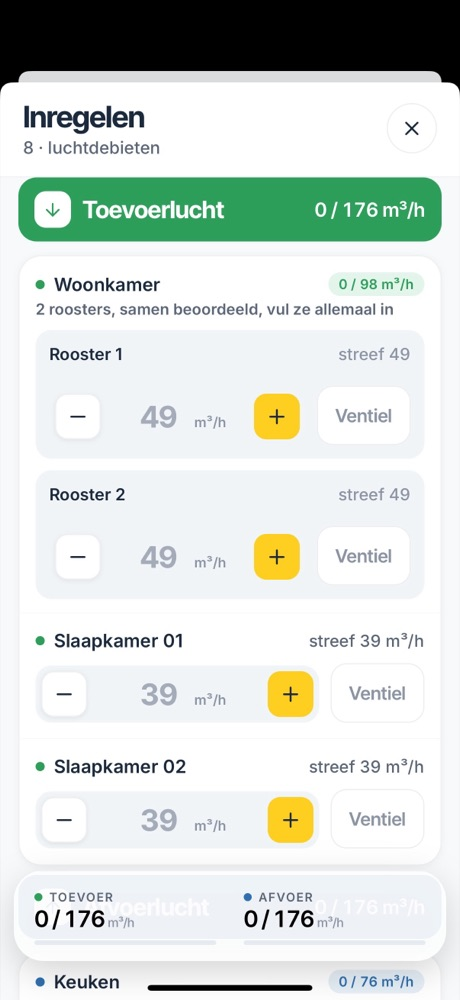
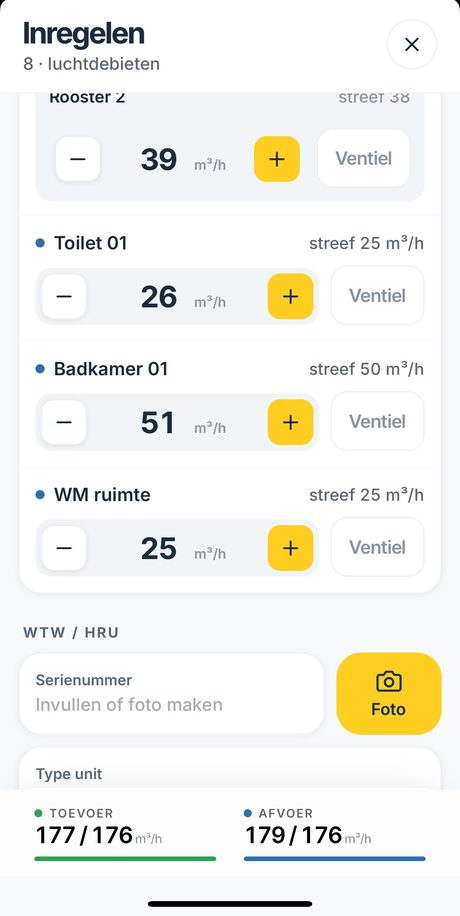
Vergelijking met BuildProof links, schone meetrapportfoto, footerlinks onder elkaar

diff --git a/index.html b/index.html
@@ -251,12 +251,12 @@
         <h3 class="h3">Van zoeken naar weten</h3>
         <div class="cmp-wrap">
         <table class="cmp">
-          <thead><tr><th scope="col"><span class="sr-only">Onderdeel</span></th><th scope="col" class="cmp-old">Zonder BuildProof</th><th scope="col" class="cmp-bp"><img src="/assets/v5/img/buildproof-logo-wit.png" alt="Met BuildProof" width="98" height="24"></th></tr></thead>
+          <thead><tr><th scope="col"><span class="sr-only">Onderdeel</span></th><th scope="col" class="cmp-bp"><span>Met BuildProof</span></th><th scope="col" class="cmp-old">Zonder BuildProof</th></tr></thead>
           <tbody>
-          <tr><th scope="row"><span class="cmp-topic"><i><svg viewBox="0 0 24 24" fill="none" stroke="currentColor" stroke-width="2.2" stroke-linecap="round" stroke-linejoin="round" aria-hidden="true"><path d="M14.5 4h-5L7 7H4a2 2 0 0 0-2 2v9a2 2 0 0 0 2 2h16a2 2 0 0 0 2-2V9a2 2 0 0 0-2-2h-3l-2.5-3z"/><circle cx="12" cy="13" r="3"/></svg></i>Foto’s</span></th><td class="cmp-old" data-label="Zonder BuildProof"><span class="cmp-ic cmp-no"><svg viewBox="0 0 24 24" fill="none" stroke="currentColor" stroke-width="2.6" stroke-linecap="round" stroke-linejoin="round" aria-hidden="true"><path d="M18 6 6 18M6 6l12 12"/></svg></span>Zoeken in groepsapps en camerarollen</td><td class="cmp-bp" data-label="Met BuildProof"><span class="cmp-ic cmp-yes"><svg viewBox="0 0 24 24" fill="none" stroke="currentColor" stroke-width="3" stroke-linecap="round" stroke-linejoin="round" aria-hidden="true"><path d="M20 6 9 17l-5-5"/></svg></span>Staan meteen op de juiste kavel</td></tr>
-          <tr><th scope="row"><span class="cmp-topic"><i><svg viewBox="0 0 24 24" fill="none" stroke="currentColor" stroke-width="2.2" stroke-linecap="round" stroke-linejoin="round" aria-hidden="true"><rect width="8" height="4" x="8" y="2" rx="1"/><path d="M16 4h2a2 2 0 0 1 2 2v14a2 2 0 0 1-2 2H6a2 2 0 0 1-2-2V6a2 2 0 0 1 2-2h2"/><path d="m9 14 2 2 4-4"/></svg></i>Checklists en metingen</span></th><td class="cmp-old" data-label="Zonder BuildProof"><span class="cmp-ic cmp-no"><svg viewBox="0 0 24 24" fill="none" stroke="currentColor" stroke-width="2.6" stroke-linecap="round" stroke-linejoin="round" aria-hidden="true"><path d="M18 6 6 18M6 6l12 12"/></svg></span>Op papier en in een schrift</td><td class="cmp-bp" data-label="Met BuildProof"><span class="cmp-ic cmp-yes"><svg viewBox="0 0 24 24" fill="none" stroke="currentColor" stroke-width="3" stroke-linecap="round" stroke-linejoin="round" aria-hidden="true"><path d="M20 6 9 17l-5-5"/></svg></span>Op de telefoon, met meetrapport</td></tr>
-          <tr><th scope="row"><span class="cmp-topic"><i><svg viewBox="0 0 24 24" fill="none" stroke="currentColor" stroke-width="2.2" stroke-linecap="round" stroke-linejoin="round" aria-hidden="true"><rect width="7" height="7" x="3" y="3" rx="1"/><rect width="7" height="7" x="14" y="3" rx="1"/><rect width="7" height="7" x="14" y="14" rx="1"/><rect width="7" height="7" x="3" y="14" rx="1"/></svg></i>Status per kavel</span></th><td class="cmp-old" data-label="Zonder BuildProof"><span class="cmp-ic cmp-no"><svg viewBox="0 0 24 24" fill="none" stroke="currentColor" stroke-width="2.6" stroke-linecap="round" stroke-linejoin="round" aria-hidden="true"><path d="M18 6 6 18M6 6l12 12"/></svg></span>Bijhouden in Excel</td><td class="cmp-bp" data-label="Met BuildProof"><span class="cmp-ic cmp-yes"><svg viewBox="0 0 24 24" fill="none" stroke="currentColor" stroke-width="3" stroke-linecap="round" stroke-linejoin="round" aria-hidden="true"><path d="M20 6 9 17l-5-5"/></svg></span>Kantoor ziet het direct</td></tr>
-          <tr><th scope="row"><span class="cmp-topic"><i><svg viewBox="0 0 24 24" fill="none" stroke="currentColor" stroke-width="2.2" stroke-linecap="round" stroke-linejoin="round" aria-hidden="true"><path d="M15 2H6a2 2 0 0 0-2 2v16a2 2 0 0 0 2 2h12a2 2 0 0 0 2-2V7Z"/><path d="M14 2v4a2 2 0 0 0 2 2h4"/><path d="M10 13h4M10 17h4"/></svg></i>Dossier</span></th><td class="cmp-old" data-label="Zonder BuildProof"><span class="cmp-ic cmp-no"><svg viewBox="0 0 24 24" fill="none" stroke="currentColor" stroke-width="2.6" stroke-linecap="round" stroke-linejoin="round" aria-hidden="true"><path d="M18 6 6 18M6 6l12 12"/></svg></span>Pas maken bij de oplevering</td><td class="cmp-bp" data-label="Met BuildProof"><span class="cmp-ic cmp-yes"><svg viewBox="0 0 24 24" fill="none" stroke="currentColor" stroke-width="3" stroke-linecap="round" stroke-linejoin="round" aria-hidden="true"><path d="M20 6 9 17l-5-5"/></svg></span>Staat klaar als PDF</td></tr>
+          <tr><th scope="row"><span class="cmp-topic"><i><svg viewBox="0 0 24 24" fill="none" stroke="currentColor" stroke-width="2.2" stroke-linecap="round" stroke-linejoin="round" aria-hidden="true"><path d="M14.5 4h-5L7 7H4a2 2 0 0 0-2 2v9a2 2 0 0 0 2 2h16a2 2 0 0 0 2-2V9a2 2 0 0 0-2-2h-3l-2.5-3z"/><circle cx="12" cy="13" r="3"/></svg></i>Foto’s</span></th><td class="cmp-bp" data-label="Met BuildProof"><span class="cmp-ic cmp-yes"><svg viewBox="0 0 24 24" fill="none" stroke="currentColor" stroke-width="3" stroke-linecap="round" stroke-linejoin="round" aria-hidden="true"><path d="M20 6 9 17l-5-5"/></svg></span>Staan meteen op de juiste kavel</td><td class="cmp-old" data-label="Zonder BuildProof"><span class="cmp-ic cmp-no"><svg viewBox="0 0 24 24" fill="none" stroke="currentColor" stroke-width="2.6" stroke-linecap="round" stroke-linejoin="round" aria-hidden="true"><path d="M18 6 6 18M6 6l12 12"/></svg></span>Zoeken in groepsapps en camerarollen</td></tr>
+          <tr><th scope="row"><span class="cmp-topic"><i><svg viewBox="0 0 24 24" fill="none" stroke="currentColor" stroke-width="2.2" stroke-linecap="round" stroke-linejoin="round" aria-hidden="true"><rect width="8" height="4" x="8" y="2" rx="1"/><path d="M16 4h2a2 2 0 0 1 2 2v14a2 2 0 0 1-2 2H6a2 2 0 0 1-2-2V6a2 2 0 0 1 2-2h2"/><path d="m9 14 2 2 4-4"/></svg></i>Checklists en metingen</span></th><td class="cmp-bp" data-label="Met BuildProof"><span class="cmp-ic cmp-yes"><svg viewBox="0 0 24 24" fill="none" stroke="currentColor" stroke-width="3" stroke-linecap="round" stroke-linejoin="round" aria-hidden="true"><path d="M20 6 9 17l-5-5"/></svg></span>Op de telefoon, met meetrapport</td><td class="cmp-old" data-label="Zonder BuildProof"><span class="cmp-ic cmp-no"><svg viewBox="0 0 24 24" fill="none" stroke="currentColor" stroke-width="2.6" stroke-linecap="round" stroke-linejoin="round" aria-hidden="true"><path d="M18 6 6 18M6 6l12 12"/></svg></span>Op papier en in een schrift</td></tr>
+          <tr><th scope="row"><span class="cmp-topic"><i><svg viewBox="0 0 24 24" fill="none" stroke="currentColor" stroke-width="2.2" stroke-linecap="round" stroke-linejoin="round" aria-hidden="true"><rect width="7" height="7" x="3" y="3" rx="1"/><rect width="7" height="7" x="14" y="3" rx="1"/><rect width="7" height="7" x="14" y="14" rx="1"/><rect width="7" height="7" x="3" y="14" rx="1"/></svg></i>Status per kavel</span></th><td class="cmp-bp" data-label="Met BuildProof"><span class="cmp-ic cmp-yes"><svg viewBox="0 0 24 24" fill="none" stroke="currentColor" stroke-width="3" stroke-linecap="round" stroke-linejoin="round" aria-hidden="true"><path d="M20 6 9 17l-5-5"/></svg></span>Kantoor ziet het direct</td><td class="cmp-old" data-label="Zonder BuildProof"><span class="cmp-ic cmp-no"><svg viewBox="0 0 24 24" fill="none" stroke="currentColor" stroke-width="2.6" stroke-linecap="round" stroke-linejoin="round" aria-hidden="true"><path d="M18 6 6 18M6 6l12 12"/></svg></span>Bijhouden in Excel</td></tr>
+          <tr><th scope="row"><span class="cmp-topic"><i><svg viewBox="0 0 24 24" fill="none" stroke="currentColor" stroke-width="2.2" stroke-linecap="round" stroke-linejoin="round" aria-hidden="true"><path d="M15 2H6a2 2 0 0 0-2 2v16a2 2 0 0 0 2 2h12a2 2 0 0 0 2-2V7Z"/><path d="M14 2v4a2 2 0 0 0 2 2h4"/><path d="M10 13h4M10 17h4"/></svg></i>Dossier</span></th><td class="cmp-bp" data-label="Met BuildProof"><span class="cmp-ic cmp-yes"><svg viewBox="0 0 24 24" fill="none" stroke="currentColor" stroke-width="3" stroke-linecap="round" stroke-linejoin="round" aria-hidden="true"><path d="M20 6 9 17l-5-5"/></svg></span>Staat klaar als PDF</td><td class="cmp-old" data-label="Zonder BuildProof"><span class="cmp-ic cmp-no"><svg viewBox="0 0 24 24" fill="none" stroke="currentColor" stroke-width="2.6" stroke-linecap="round" stroke-linejoin="round" aria-hidden="true"><path d="M18 6 6 18M6 6l12 12"/></svg></span>Pas maken bij de oplevering</td></tr>
           </tbody>
         </table>
         </div>
@@ -610,7 +610,9 @@
           <li><a href="#hoe-het-werkt">Hoe het werkt</a></li>
           <li><a href="#tarief">Tarief</a></li>
           <li><a href="#waarom">Waarom BuildProof</a></li>
-          <li><a href="#faq">FAQ</a><a href="/blog/">Kennisbank</a><a href="https://www.buildproof.nl/">Gratis stappenplan</a></li>
+          <li><a href="#faq">FAQ</a></li>
+          <li><a href="/blog/">Kennisbank</a></li>
+          <li><a href="https://www.buildproof.nl/">Gratis stappenplan</a></li>
         </ul>
       </div>
       <div class="foot-contact">

diff --git a/assets/v5/extra.css b/assets/v5/extra.css
@@ -1,4 +1,8 @@
 .logo img, .site-footer img { height: 36px; width: auto; }
+.cmp-wrap::before { right: 0; border-right: 1px solid var(--mist-200); border-radius: 20px; }
+.cmp-wrap::after { left: 26%; right: 34%; }
+.cmp th:nth-child(2) { width: 40%; } .cmp th:nth-child(3) { width: 34%; }
+.cmp thead th.cmp-bp span { display: inline-block; color: var(--amber); transform: translateY(-10px); }
 .shots { display: grid; grid-template-columns: repeat(5, 200px); gap: 18px; overflow-x: auto; scroll-snap-type: x proximity; padding-bottom: 12px; }
 .shots figure { margin: 0; display: grid; gap: 12px; min-width: 0; scroll-snap-align: start; align-content: start; }
 .appshot { border-radius: 26px; overflow: hidden; border: 5px solid var(--ink-900); background: var(--ink-900); box-shadow: var(--sh-2); aspect-ratio: 1 / 2; }

diff --git a/blog/bewijslast-oplevering-garantie/index.html b/blog/bewijslast-oplevering-garantie/index.html
@@ -110,7 +110,9 @@
           <li><a href="/#hoe-het-werkt">Hoe het werkt</a></li>
           <li><a href="/#tarief">Tarief</a></li>
           <li><a href="/#waarom">Waarom BuildProof</a></li>
-          <li><a href="/#faq">FAQ</a><a href="/blog/">Kennisbank</a><a href="https://www.buildproof.nl/">Gratis stappenplan</a></li>
+          <li><a href="/#faq">FAQ</a></li>
+          <li><a href="/blog/">Kennisbank</a></li>
+          <li><a href="https://www.buildproof.nl/">Gratis stappenplan</a></li>
         </ul>
       </div>
       <div class="foot-contact">

diff --git a/blog/faalkosten-verlagen-documentatie/index.html b/blog/faalkosten-verlagen-documentatie/index.html
@@ -112,7 +112,9 @@
           <li><a href="/#hoe-het-werkt">Hoe het werkt</a></li>
           <li><a href="/#tarief">Tarief</a></li>
           <li><a href="/#waarom">Waarom BuildProof</a></li>
-          <li><a href="/#faq">FAQ</a><a href="/blog/">Kennisbank</a><a href="https://www.buildproof.nl/">Gratis stappenplan</a></li>
+          <li><a href="/#faq">FAQ</a></li>
+          <li><a href="/blog/">Kennisbank</a></li>
+          <li><a href="https://www.buildproof.nl/">Gratis stappenplan</a></li>
         </ul>
       </div>
       <div class="foot-contact">

diff --git a/blog/opleverdossier-checklist/index.html b/blog/opleverdossier-checklist/index.html
@@ -125,7 +125,9 @@
           <li><a href="/#hoe-het-werkt">Hoe het werkt</a></li>
           <li><a href="/#tarief">Tarief</a></li>
           <li><a href="/#waarom">Waarom BuildProof</a></li>
-          <li><a href="/#faq">FAQ</a><a href="/blog/">Kennisbank</a><a href="https://www.buildproof.nl/">Gratis stappenplan</a></li>
+          <li><a href="/#faq">FAQ</a></li>
+          <li><a href="/blog/">Kennisbank</a></li>
+          <li><a href="https://www.buildproof.nl/">Gratis stappenplan</a></li>
         </ul>
       </div>
       <div class="foot-contact">

diff --git a/blog/wat-whatsapp-kost/index.html b/blog/wat-whatsapp-kost/index.html
@@ -108,7 +108,9 @@
           <li><a href="/#hoe-het-werkt">Hoe het werkt</a></li>
           <li><a href="/#tarief">Tarief</a></li>
           <li><a href="/#waarom">Waarom BuildProof</a></li>
-          <li><a href="/#faq">FAQ</a><a href="/blog/">Kennisbank</a><a href="https://www.buildproof.nl/">Gratis stappenplan</a></li>
+          <li><a href="/#faq">FAQ</a></li>
+          <li><a href="/blog/">Kennisbank</a></li>
+          <li><a href="https://www.buildproof.nl/">Gratis stappenplan</a></li>
         </ul>
       </div>
       <div class="foot-contact">

diff --git a/blog/whatsapp-chaos-projectdossier/index.html b/blog/whatsapp-chaos-projectdossier/index.html
@@ -115,7 +115,9 @@
           <li><a href="/#hoe-het-werkt">Hoe het werkt</a></li>
           <li><a href="/#tarief">Tarief</a></li>
           <li><a href="/#waarom">Waarom BuildProof</a></li>
-          <li><a href="/#faq">FAQ</a><a href="/blog/">Kennisbank</a><a href="https://www.buildproof.nl/">Gratis stappenplan</a></li>
+          <li><a href="/#faq">FAQ</a></li>
+          <li><a href="/blog/">Kennisbank</a></li>
+          <li><a href="https://www.buildproof.nl/">Gratis stappenplan</a></li>
         </ul>
       </div>
       <div class="foot-contact">

diff --git a/blog/wkb-uitgelegd-installateur/index.html b/blog/wkb-uitgelegd-installateur/index.html
@@ -118,7 +118,9 @@
           <li><a href="/#hoe-het-werkt">Hoe het werkt</a></li>
           <li><a href="/#tarief">Tarief</a></li>
           <li><a href="/#waarom">Waarom BuildProof</a></li>
-          <li><a href="/#faq">FAQ</a><a href="/blog/">Kennisbank</a><a href="https://www.buildproof.nl/">Gratis stappenplan</a></li>
+          <li><a href="/#faq">FAQ</a></li>
+          <li><a href="/blog/">Kennisbank</a></li>
+          <li><a href="https://www.buildproof.nl/">Gratis stappenplan</a></li>
         </ul>
       </div>
       <div class="foot-contact">

diff --git a/404.html b/404.html
@@ -81,7 +81,9 @@
           <li><a href="/#hoe-het-werkt">Hoe het werkt</a></li>
           <li><a href="/#tarief">Tarief</a></li>
           <li><a href="/#waarom">Waarom BuildProof</a></li>
-          <li><a href="/#faq">FAQ</a><a href="/blog/">Kennisbank</a><a href="https://www.buildproof.nl/">Gratis stappenplan</a></li>
+          <li><a href="/#faq">FAQ</a></li>
+          <li><a href="/blog/">Kennisbank</a></li>
+          <li><a href="https://www.buildproof.nl/">Gratis stappenplan</a></li>
         </ul>
       </div>
       <div class="foot-contact">

diff --git a/blog/index.html b/blog/index.html
@@ -80,7 +80,9 @@
           <li><a href="/#hoe-het-werkt">Hoe het werkt</a></li>
           <li><a href="/#tarief">Tarief</a></li>
           <li><a href="/#waarom">Waarom BuildProof</a></li>
-          <li><a href="/#faq">FAQ</a><a href="/blog/">Kennisbank</a><a href="https://www.buildproof.nl/">Gratis stappenplan</a></li>
+          <li><a href="/#faq">FAQ</a></li>
+          <li><a href="/blog/">Kennisbank</a></li>
+          <li><a href="https://www.buildproof.nl/">Gratis stappenplan</a></li>
         </ul>
       </div>
       <div class="foot-contact">
